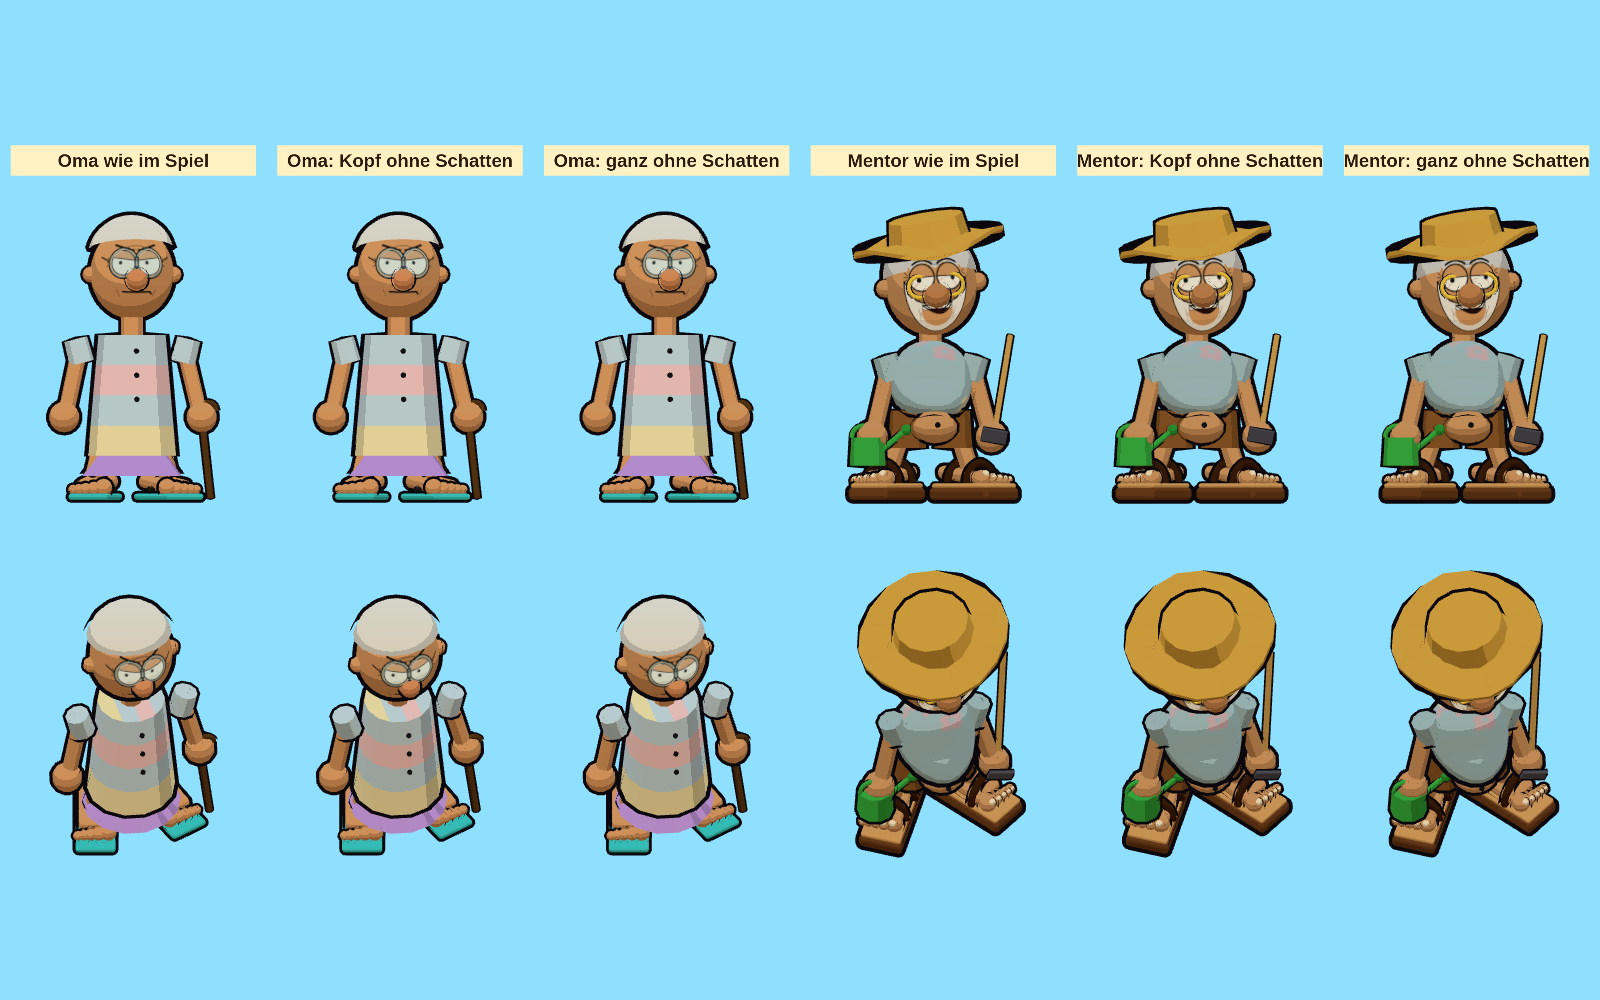
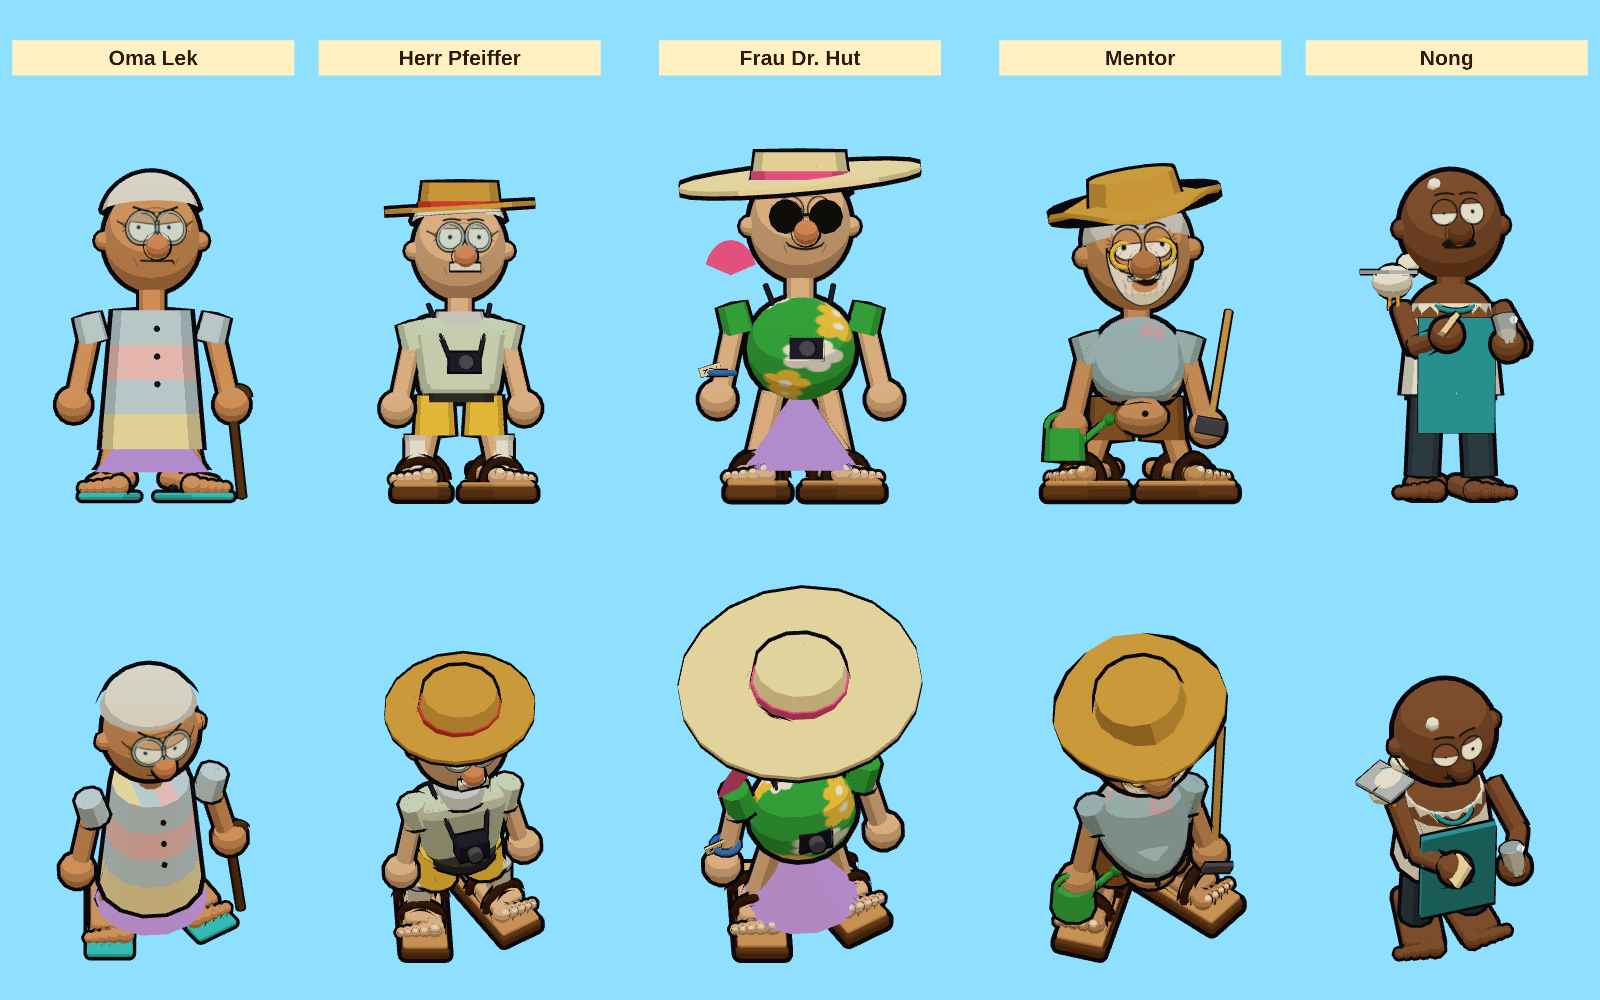
Mentor-Bart deckend

diff --git a/spiel/js/faces.js b/spiel/js/faces.js
@@ -293,7 +293,7 @@ function stubble(ctx, m, seed = 9) {
 
 // Vollbart: Blob über die untere Gesichtshälfte, hautfarbenes Loch um den Mund, Schnauzer obendrauf
 function beard(ctx, m, skin, color, big) {
-  ctx.fillStyle = color; ctx.strokeStyle = INK; ctx.lineWidth = 14; ctx.lineJoin = 'round';
+  ctx.fillStyle = color; ctx.strokeStyle = INK; ctx.lineWidth = 20; ctx.lineJoin = 'round'; // deckend, dicke Kontur
   ctx.beginPath();
   ctx.moveTo(150, 360); ctx.quadraticCurveTo(170, 700, 260, 860);
   ctx.quadraticCurveTo(380, 1010, 512, 990); ctx.quadraticCurveTo(644, 1010, 764, 860);
@@ -303,8 +303,9 @@ function beard(ctx, m, skin, color, big) {
   ctx.closePath(); ctx.fill(); ctx.stroke();
   // Haarstriche im Bart, sonst wirkt ein heller Bart wie ein grauer Schleier überm Gesicht
   for (let i = 0; i < 7; i++) { const x = 300 + i * 70, y = 700 + (i % 2) * 40; strokePath(ctx, [[x, y], [x - 10, y + 110]], 6, 'rgba(17,17,17,0.45)'); }
+  // Loch um den Mund nur so groß wie der Mund selbst — ein großes Hautfeld im Bart sah aus, als schiene die Haut durch
   ctx.fillStyle = skin;
-  ctx.beginPath(); ctx.ellipse(m.x, m.y + (big ? 40 : 14), m.w * (big ? 0.62 : 0.54), big ? 170 : 84, 0, 0, Math.PI * 2); ctx.fill();
+  ctx.beginPath(); ctx.ellipse(m.x, m.y + (big ? 30 : 10), m.w * (big ? 0.46 : 0.42), big ? 86 : 60, 0, 0, Math.PI * 2); ctx.fill();
   mustache(ctx, m, color);
 }
 function mustache(ctx, m, color) {
